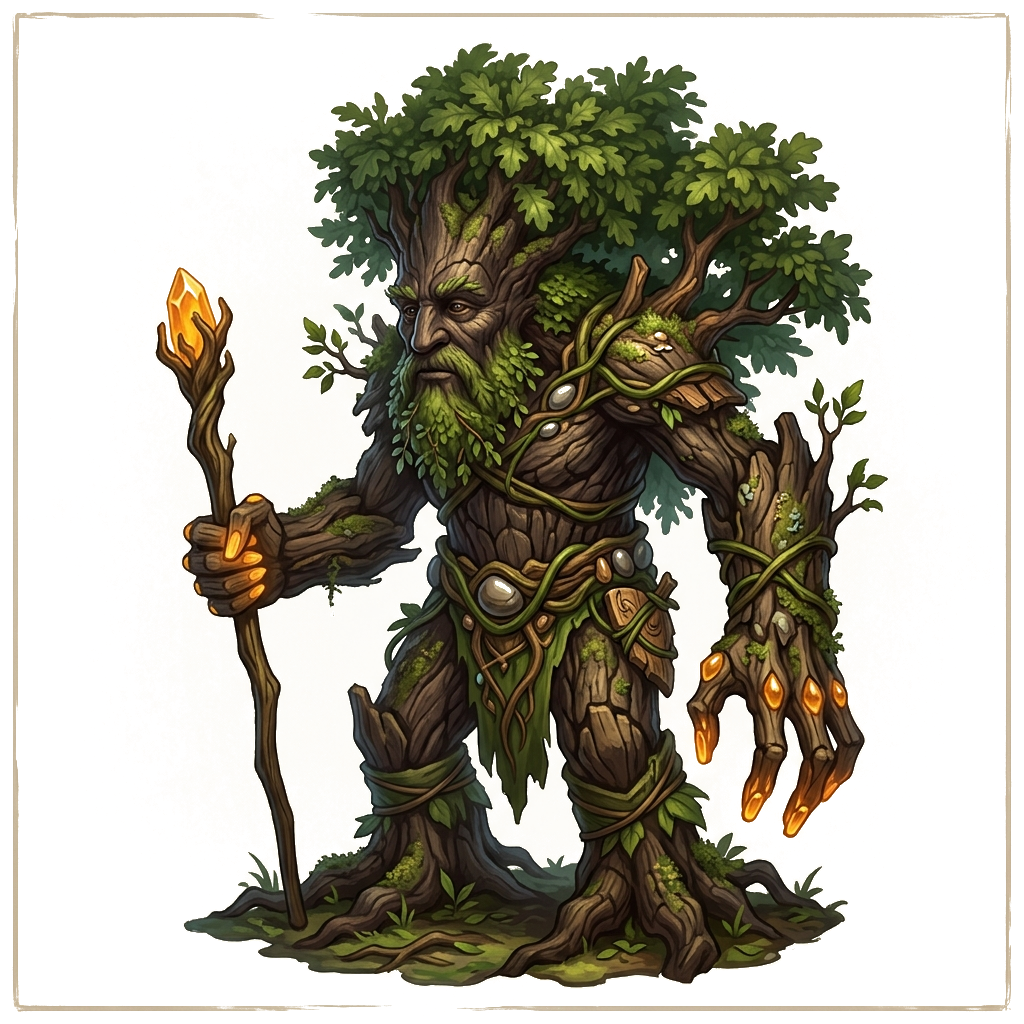
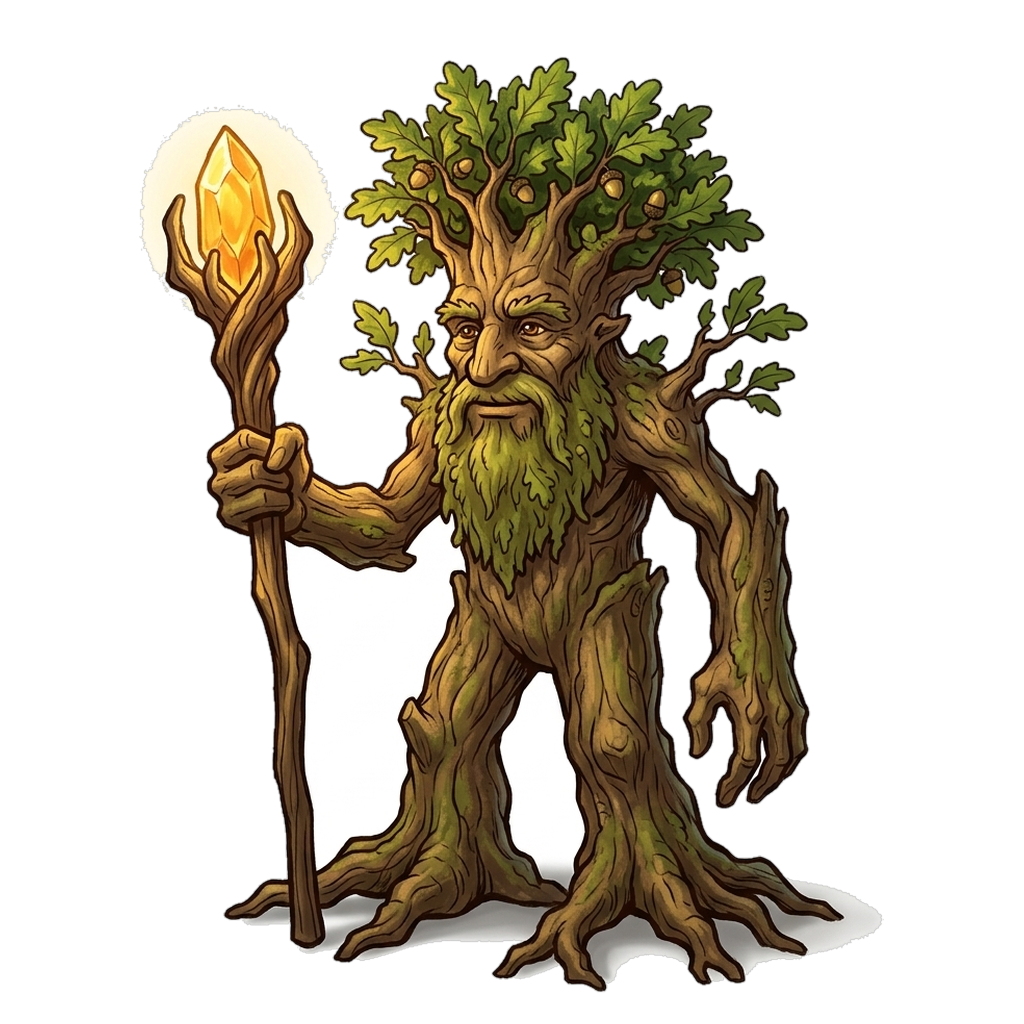
fix(kt): replace formsubmit with native api/kt/suggest and show all 19 creatures

diff --git a/kt/index.html b/kt/index.html
@@ -169,12 +169,25 @@
   <section class="container">
     <h2>Обитатели королевства</h2>
     <div class="units">
-      <a class="unit" href="dashboard.html"><img src="assets/unit_griffin.png" alt="Королевский Грифон"><span>Королевский Грифон</span><small>гордость казны</small></a>
-      <a class="unit" href="dashboard.html"><img src="assets/unit_fairy_archer.png" alt="Лучницы-Феи"><span>Лучницы-Феи</span><small>роща фей</small></a>
-      <a class="unit" href="dashboard.html"><img src="assets/unit_treant.png" alt="Древние Древни"><span>Древние Древни</span><small>хранители леса</small></a>
-      <a class="unit" href="dashboard.html"><img src="assets/unit_wolf.png" alt="Лесные Волки"><span>Лесные Волки</span><small>стая чащи</small></a>
-      <a class="unit" href="dashboard.html"><img src="assets/unit_goblin.png" alt="Гоблины-копейщики"><span>Гоблины-копейщики</span><small>засады</small></a>
-      <a class="unit" href="dashboard.html"><img src="assets/unit_skeleton_archer.png" alt="Скелеты-лучники"><span>Скелеты-лучники</span><small>бездушный строй</small></a>
+      <a class="unit" href="dashboard.html"><img src="assets/unit_royal_griffin.png" alt="Королевский Грифон"><span>Королевский Грифон</span><small>гвардия короны · Тир 3</small></a>
+      <a class="unit" href="dashboard.html"><img src="assets/unit_griffin.png" alt="Грифон"><span>Грифон</span><small>гордость казны · Тир 3</small></a>
+      <a class="unit" href="dashboard.html"><img src="assets/unit_royal_fairy.png" alt="Королевская Фея"><span>Королевская Фея</span><small>двойной выстрел · Тир 2</small></a>
+      <a class="unit" href="dashboard.html"><img src="assets/unit_fairy_archer.png" alt="Феи-лучницы"><span>Фея-лучница</span><small>роща фей · Тир 2</small></a>
+      <a class="unit" href="dashboard.html"><img src="assets/unit_pegasus.png" alt="Светлые Пегасы"><span>Светлый Пегас</span><small>крылатый перехват · Тир 3</small></a>
+      <a class="unit" href="dashboard.html"><img src="assets/unit_unicorn.png" alt="Единороги"><span>Единорог</span><small>лунная поляна · Тир 4</small></a>
+      <a class="unit" href="dashboard.html"><img src="assets/unit_druid.png" alt="Лесные Друиды"><span>Лесной Друид</span><small>молнии природы · Тир 3</small></a>
+      <a class="unit" href="dashboard.html"><img src="assets/unit_treant.png" alt="Древни"><span>Древний Древень</span><small>хранитель леса · Тир 4</small></a>
+      <a class="unit" href="dashboard.html"><img src="assets/unit_fox_shifter.png" alt="Лисы-Оборотни"><span>Лиса-Оборотень</span><small>дух чащи · Тир 2</small></a>
+      <a class="unit" href="dashboard.html"><img src="assets/unit_wolf.png" alt="Лесные Волки"><span>Лесной Волк</span><small>стая чащи · Тир 1</small></a>
+      <a class="unit" href="dashboard.html"><img src="assets/unit_stone_guardian.png" alt="Каменные Стражи"><span>Каменный Страж</span><small>древние обелиски · Тир 4</small></a>
+      <a class="unit" href="dashboard.html"><img src="assets/unit_goblin.png" alt="Гоблины"><span>Гоблин-копейщик</span><small>лесные засады · Тир 1</small></a>
+      <a class="unit" href="dashboard.html"><img src="assets/unit_skeleton_archer.png" alt="Скелеты-лучники"><span>Скелет-лучник</span><small>курганы нежити · Тир 1</small></a>
+      <a class="unit" href="dashboard.html"><img src="assets/medallion_swamp_zombie.png" alt="Болотные Зомби"><span>Болотный Зомби</span><small>тлетворный яд · Тир 2</small></a>
+      <a class="unit" href="dashboard.html"><img src="assets/unit_lich.png" alt="Лич Некромант"><span>Лич Некромант</span><small>подъём мертвецов · Тир 5</small></a>
+      <a class="unit" href="dashboard.html"><img src="assets/unit_lava_salamander.png" alt="Лавовые саламандры"><span>Лавовая Саламандра</span><small>огненный шип · Тир 2</small></a>
+      <a class="unit" href="dashboard.html"><img src="assets/unit_magma_golem.png" alt="Магмовые големы"><span>Магмовый Голем</span><small>исполин магмы · Тир 4</small></a>
+      <a class="unit" href="dashboard.html"><img src="assets/unit_red_dragon.png" alt="Красный Дракон"><span>Красный Дракон</span><small>огненная буря · Тир 7</small></a>
+      <a class="unit" href="dashboard.html"><img src="assets/medallion_bandit_chief.png" alt="Атаман Разбойников"><span>Атаман Разбойников</span><small>вожак ватаги · Босс</small></a>
     </div>
   </section>
 
@@ -227,9 +240,7 @@
     <h2>Предложить идею или баг 🛠</h2>
     <p class="form-note" style="margin-bottom:1.2rem;">Прежде чем попасть к Gemini, предложение пройдёт суд концепции —
       ламповой сказке без замков, крафта и мрачняка.</p>
-    <form action="https://formsubmit.co/taskivantitov@mail.ru" method="POST">
-      <input type="hidden" name="_subject" value="[KT] Предложение по игре">
-      <input type="hidden" name="_template" value="table">
+    <form id="suggestForm" action="/api/kt/suggest" method="POST">
       <input type="text" name="_honey" tabindex="-1" autocomplete="off" style="display:none">
       <input type="text" name="name" placeholder="Ник или имя" required>
       <select name="kind" required>
@@ -253,7 +264,7 @@
   </footer>
 
   <script>
-    const form = document.querySelector('form');
+    const form = document.getElementById('suggestForm') || document.querySelector('form');
     if (form) {
       form.addEventListener('submit', async function(e) {
         e.preventDefault();
@@ -265,12 +276,13 @@
         const name = (form.name.value || '').trim();
         const kind = form.kind.value || 'идея';
         const msg = (form.message.value || '').trim();
+        const honey = (form._honey ? form._honey.value : '').trim();
         const subject = `[KT] ${name}: ${kind}`;
         const body = `Ник: ${name}\nЧто это: ${kind}\n\nПредложение:\n${msg}`;
 
         let sent = false;
         try {
-          const res = await fetch('https://formsubmit.co/ajax/taskivantitov@mail.ru', {
+          const res = await fetch('/api/kt/suggest', {
             method: 'POST',
             headers: {
               'Content-Type': 'application/json',
@@ -280,12 +292,12 @@
               name: name,
               kind: kind,
               message: msg,
-              _subject: subject
+              _honey: honey
             })
           });
           if (res.ok) {
             const data = await res.json();
-            if (data.success === 'true' || data.success === true) {
+            if (data.success === true || data.success === 'true') {
               sent = true;
             }
           }
@@ -295,9 +307,9 @@
 
         if (sent) {
           form.innerHTML = `
-            <div class="parchment" style="text-align:center; padding:2rem 1.2rem;">
-              <h3 style="color:var(--gold-bright); font-family:'Prata',serif; font-size:1.3rem; margin-bottom:.8rem;">📜 Свиток принят летописцем!</h3>
-              <p style="margin-bottom:1.2rem;">Ваше предложение дошло до конвейера. Оно пройдёт суд концепции и появится в <a href="dashboard.html" style="color:var(--gold-bright); font-weight:bold;">Книге Предложений</a>.</p>
+            <div class="parchment" style="text-align:center; padding:2.5rem 1.4rem; border:2px solid var(--gold); border-radius:8px;">
+              <h3 style="color:var(--gold-bright); font-family:'Prata',serif; font-size:1.4rem; margin-bottom:.8rem;">📜 Свиток принят летописцем!</h3>
+              <p style="margin-bottom:1.4rem; font-size:1.05rem;">Ваше предложение бережно передано конвейеру. В течение нескольких минут оно пройдёт суд концепции и появится в <a href="dashboard.html" style="color:var(--gold-bright); font-weight:bold; text-decoration:underline;">Книге Предложений</a>.</p>
               <a class="wood-btn" href="dashboard.html">Перейти в Книгу Предложений</a>
             </div>`;
         } else {
@@ -309,17 +321,16 @@
           const statusBox = document.getElementById('formStatus');
           statusBox.style.display = 'block';
           statusBox.className = 'parchment';
-          statusBox.style.cssText = 'display:block; margin-top:1.2rem; text-align:center; padding:1.4rem; border:1px solid var(--gold); border-radius:8px;';
+          statusBox.style.cssText = 'display:block; margin-top:1.2rem; text-align:center; padding:1.4rem; border:1px solid #d9534f; border-radius:8px;';
           statusBox.innerHTML = `
             <h4 style="color:#d9534f; margin-bottom:.5rem; font-family:'Prata',serif;">Почтовый голубь временно задерживается</h4>
-            <p style="font-size:.95rem; margin-bottom:1rem;">Сервис приёма веб-форм сейчас недоступен, но ваше обращение бережно сохранено! Отправьте его в один клик:</p>
+            <p style="font-size:.95rem; margin-bottom:1rem;">Прямая отправка сейчас недоступна, но ваше обращение сохранено! Отправьте его в один клик:</p>
             <div style="display:flex; gap:.8rem; justify-content:center; flex-wrap:wrap; margin-bottom:1rem;">
               <a class="wood-btn" href="${mailtoUrl}">✉ Отправить через почту</a>
               <a class="ghost-btn" href="${ghUrl}" target="_blank" rel="noopener" style="color:var(--gold-bright); border-color:var(--gold);">🐙 Создать GitHub Issue</a>
             </div>
-            <p style="font-size:.85rem; color:var(--ink-soft);">Или отправьте вручную на <b>taskivantitov@mail.ru</b> (в теме письма укажите <code>[KT]</code>).</p>
+            <p style="font-size:.85rem; color:var(--ink-soft);">Или отправьте письмо на <b>taskivantitov@mail.ru</b> (в теме укажите <code>[KT]</code>).</p>
           `;
-          window.location.href = mailtoUrl;
         }
       });
     }
